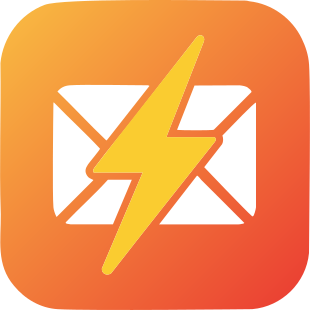
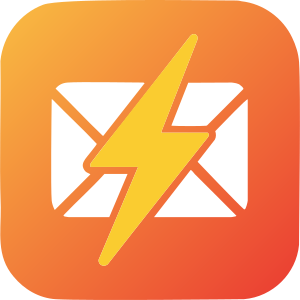
Fix Store tile dimensions and add MSIX build scripts
- Fix LargeTile.png to 300x300 for Store requirements
- Add fix-appx-manifest.js script for Store-ready MSIX builds
- Add npm run make:store command
- Add screenshot guide for Store listing

diff --git a/scripts/fix-appx-manifest.js b/scripts/fix-appx-manifest.js
@@ -1,0 +1,126 @@
+#!/usr/bin/env node
+
+/**
+ * Fix APPX Manifest for Microsoft Store Submission
+ *
+ * The electron-windows-store package doesn't properly pass through
+ * all MakerAppX configuration options. This script fixes the manifest
+ * and rebuilds the package for Store submission.
+ */
+
+const fs = require('fs');
+const path = require('path');
+const { execSync } = require('child_process');
+
+// Store identity from Partner Center
+const STORE_CONFIG = {
+  identityName: 'ColdRayLabs.ComposeBooster',
+  publisher: 'CN=D41101CD-1A4E-4FB3-8255-4BA6A73D7D90',
+  publisherDisplayName: 'Cold Ray Labs',
+  backgroundColor: '#f18138',
+};
+
+const BUILD_DIR = path.join(__dirname, '..', 'out', 'x64', 'make', 'appx', 'x64');
+const PRE_APPX_DIR = path.join(BUILD_DIR, 'pre-appx');
+const MANIFEST_PATH = path.join(PRE_APPX_DIR, 'AppXManifest.xml');
+const OUTPUT_APPX = path.join(BUILD_DIR, 'ComposeBooster-Store.appx');
+
+function main() {
+  console.log('🔧 Fixing APPX manifest for Microsoft Store...\n');
+
+  // Check if manifest exists
+  if (!fs.existsSync(MANIFEST_PATH)) {
+    console.error('❌ Manifest not found. Run "npm run make -- --targets=@electron-forge/maker-appx" first.');
+    process.exit(1);
+  }
+
+  // Read the manifest
+  let manifest = fs.readFileSync(MANIFEST_PATH, 'utf-8');
+  console.log('📖 Read existing manifest');
+
+  // Fix Identity Name
+  manifest = manifest.replace(
+    /Identity Name="[^"]*"/,
+    `Identity Name="${STORE_CONFIG.identityName}"`
+  );
+  console.log(`  ✓ Identity Name → ${STORE_CONFIG.identityName}`);
+
+  // Fix Publisher
+  manifest = manifest.replace(
+    /Publisher="[^"]*"/,
+    `Publisher="${STORE_CONFIG.publisher}"`
+  );
+  console.log(`  ✓ Publisher → ${STORE_CONFIG.publisher}`);
+
+  // Fix PublisherDisplayName
+  manifest = manifest.replace(
+    /<PublisherDisplayName>[^<]*<\/PublisherDisplayName>/,
+    `<PublisherDisplayName>${STORE_CONFIG.publisherDisplayName}</PublisherDisplayName>`
+  );
+  console.log(`  ✓ PublisherDisplayName → ${STORE_CONFIG.publisherDisplayName}`);
+
+  // Fix BackgroundColor
+  manifest = manifest.replace(
+    /BackgroundColor="#[^"]*"/,
+    `BackgroundColor="${STORE_CONFIG.backgroundColor}"`
+  );
+  console.log(`  ✓ BackgroundColor → ${STORE_CONFIG.backgroundColor}`);
+
+  // Write the fixed manifest
+  fs.writeFileSync(MANIFEST_PATH, manifest);
+  console.log('\n✅ Manifest updated!\n');
+
+  // Find Windows Kit makeappx.exe
+  const windowsKitBase = 'C:\\Program Files (x86)\\Windows Kits\\10\\bin';
+  let makeAppxPath = null;
+
+  if (fs.existsSync(windowsKitBase)) {
+    const versions = fs.readdirSync(windowsKitBase)
+      .filter(d => d.startsWith('10.'))
+      .sort()
+      .reverse();
+
+    for (const version of versions) {
+      const candidate = path.join(windowsKitBase, version, 'x64', 'makeappx.exe');
+      if (fs.existsSync(candidate)) {
+        makeAppxPath = candidate;
+        break;
+      }
+    }
+  }
+
+  if (!makeAppxPath) {
+    console.error('❌ Could not find Windows SDK makeappx.exe');
+    process.exit(1);
+  }
+
+  console.log(`📦 Using makeappx from: ${makeAppxPath}\n`);
+
+  // Remove old signed appx if exists
+  const oldAppx = path.join(BUILD_DIR, 'composebooster.appx');
+  if (fs.existsSync(oldAppx)) {
+    fs.unlinkSync(oldAppx);
+    console.log('  ✓ Removed old signed package');
+  }
+
+  // Create new unsigned APPX package
+  console.log('  ✓ Creating unsigned APPX package...\n');
+
+  try {
+    execSync(`"${makeAppxPath}" pack /d "${PRE_APPX_DIR}" /p "${OUTPUT_APPX}" /o`, {
+      stdio: 'inherit'
+    });
+  } catch (error) {
+    console.error('❌ Failed to create APPX package');
+    process.exit(1);
+  }
+
+  console.log('\n' + '='.repeat(60));
+  console.log('🎉 Store-ready APPX package created!');
+  console.log(`\n📁 Package location:\n   ${OUTPUT_APPX}`);
+  console.log('\n📤 Upload this file to Partner Center for Store submission.');
+  console.log('   Microsoft will sign it with your Store certificate.');
+  console.log('='.repeat(60));
+}
+
+main();

diff --git a/forge.config.ts b/forge.config.ts
@@ -37,8 +37,9 @@ const config: ForgeConfig = {
       packageName: 'ComposeBooster',
       packageDisplayName: 'Compose Booster',
       packageVersion: '1.0.0.0', // Must be x.x.x.x format for Store
-      // Windows version requirements
-      windowsKit: undefined, // Will auto-detect
+      // For Store submission - don't sign with dev cert, produce unsigned package
+      makeVersionWinStoreCompatible: true,
+      devCert: undefined,
     }),
     new MakerZIP({}, ['darwin']),
     new MakerRpm({}),

diff --git a/scripts/generate-icons.js b/scripts/generate-icons.js
@@ -25,7 +25,7 @@ const STORE_ASSETS = [
   { name: 'Square150x150Logo.png', size: 150 },  // Medium tile
   { name: 'Square44x44Logo.png', size: 44 },     // App list icon
   { name: 'Wide310x150Logo.png', width: 310, height: 150 }, // Wide tile
-  { name: 'LargeTile.png', size: 310 },          // Large tile (Square310x310Logo)
+  { name: 'LargeTile.png', size: 300 },          // Large tile (300x300 for Store)
   { name: 'SmallTile.png', size: 71 },           // Small tile (Square71x71Logo)
 ];
 

diff --git a/SCREENSHOT_GUIDE.md b/SCREENSHOT_GUIDE.md
@@ -1,0 +1,138 @@
+# Screenshot Guide for Microsoft Store
+
+## Window Size Setup
+
+For consistent screenshots, resize your windows to these dimensions:
+- **Main Window**: 1400 x 900 pixels
+- **Settings Window**: 1200 x 800 pixels
+
+**Tip**: You can use PowerToys FancyZones or a window resizer tool, or manually resize and check with Win+Shift+S snipping tool which shows dimensions.
+
+---
+
+## Screenshot 1: Main Window - Empty State (Light Mode)
+
+**Setup:**
+1. Start the app with `npm start`
+2. Make sure theme is set to "Light" in Settings
+3. Clear both input and output areas
+4. Close DevTools if open (View menu > Toggle Developer Tools, or just resize window to hide it)
+
+**What to capture:**
+- Clean main window showing Quick Action buttons
+- Empty input/output text areas
+- Model/Prompt/Tone dropdowns visible
+
+---
+
+## Screenshot 2: Main Window - With Content (Light Mode)
+
+**Setup:**
+1. Keep the app in Light mode
+2. Paste the INPUT TEXT below into the input area (left/top)
+3. Paste the OUTPUT TEXT below into the output area (right/bottom)
+4. The status bar should show something like "Ready" or you can leave it as-is
+
+### INPUT TEXT (paste this into the input area):
+```
+Hi John,
+
+I wanted to follow up on our meeting last week. I think we should move forward with the project but I'm not sure about the timeline. Can we discuss? Also the budget might be an issue.
+
+Let me know when works for you.
+
+Thanks
+Sarah
+```
+
+### OUTPUT TEXT (paste this into the output area):
+```
+Hi John,
+
+Thank you for taking the time to meet with me last week. I wanted to follow up on our discussion regarding the project.
+
+After reviewing our conversation, I believe we should proceed with the initiative. However, I'd like to discuss two key considerations:
+
+1. **Timeline**: I want to ensure we establish realistic milestones that align with our team's capacity.
+2. **Budget**: There may be some constraints we need to address before moving forward.
+
+Would you be available for a brief call this week to discuss these points? I'm flexible and happy to work around your schedule.
+
+Best regards,
+Sarah
+```
+
+---
+
+## Screenshot 3: Main Window - Dark Mode
+
+**Setup:**
+1. Go to Settings > Theme > Select "Dark"
+2. Save and close Settings
+3. Use the same INPUT and OUTPUT text from Screenshot 2
+4. Capture the dark mode version
+
+---
+
+## Screenshot 4: Settings - General Tab
+
+**Setup:**
+1. Open Settings (gear icon or File > Settings)
+2. Stay on the "General" tab
+3. Make sure the API key field shows bullets (has a value, or put a fake one like "sk-or-xxxxxxxxxxxx")
+4. Theme should be visible
+5. Checkboxes should show reasonable defaults
+
+**What to capture:**
+- The General settings tab with API key field, theme selector, and preferences
+
+---
+
+## Screenshot 5: Settings - Models Tab
+
+**Setup:**
+1. In Settings, click the "Models" tab
+2. You should see the default models listed (Claude, GPT, Gemini)
+3. Some should be checked as enabled
+
+**What to capture:**
+- The Models tab showing available AI models with checkboxes
+
+---
+
+## Screenshot 6 (Optional): Settings - Quick Actions Tab
+
+**Setup:**
+1. Click the "Quick Actions" tab
+2. Shows the three default quick action buttons configuration
+
+**What to capture:**
+- Quick Actions configuration with the preset buttons
+
+---
+
+## Capture Tips
+
+1. **Use Windows Snipping Tool**: Press `Win + Shift + S`
+2. **Select "Window" mode** for clean captures
+3. **Save as PNG** for best quality
+4. **Naming convention**:
+   - `screenshot-1-main-empty.png`
+   - `screenshot-2-main-content.png`
+   - `screenshot-3-main-dark.png`
+   - `screenshot-4-settings-general.png`
+   - `screenshot-5-settings-models.png`
+
+## Store Requirements
+
+- **Minimum size**: 1366 x 768 pixels
+- **Maximum size**: 3840 x 2160 pixels
+- **Format**: PNG or JPG
+- **Required**: At least 1 screenshot
+- **Recommended**: 4-5 screenshots showing key features
+
+---
+
+## After Capturing
+
+Save your screenshots and let me know - I'll help you with the MSIX package build next!
